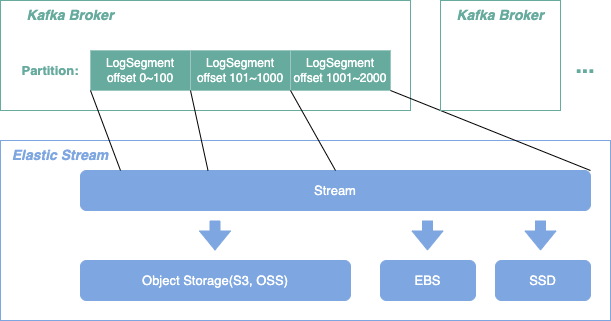
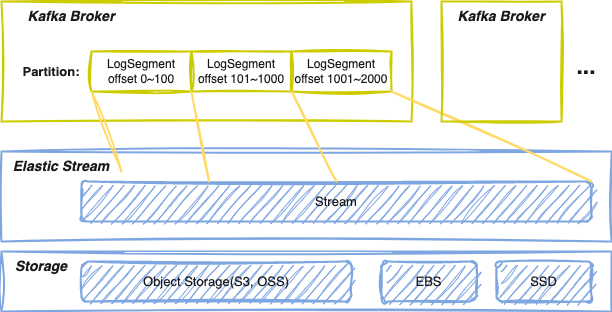
doc(README): update README picture

diff --git a/README.md b/README.md
@@ -83,5 +83,9 @@ After run producer and consumer, you can check Kafka local store path /tmp/kraft
 > the real data is stored in Elastic Stream.
 
 ## Design
+### Architecture
 ![Arch](docs/images/akf_architecture.png)
+
+### Data Mapping
+![Arch](docs/images/akf_data_mapping.png)
 
